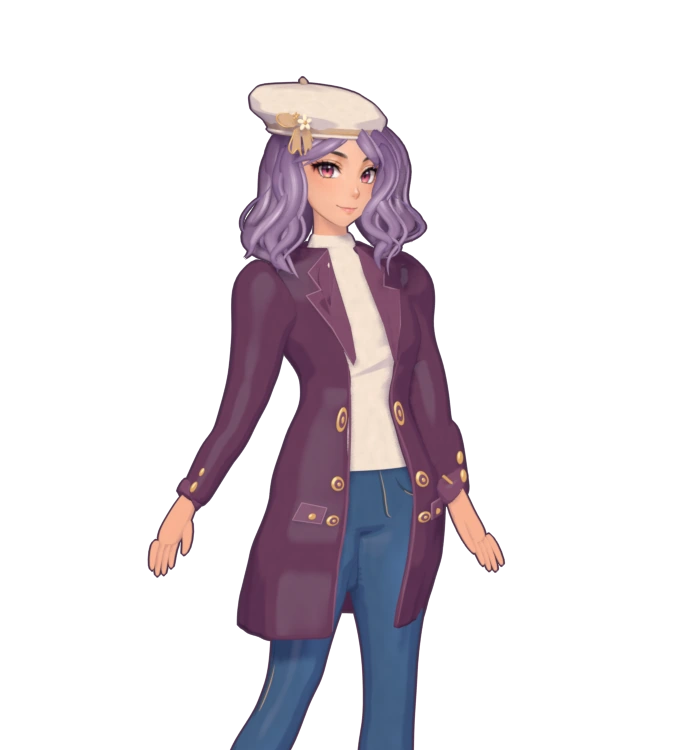
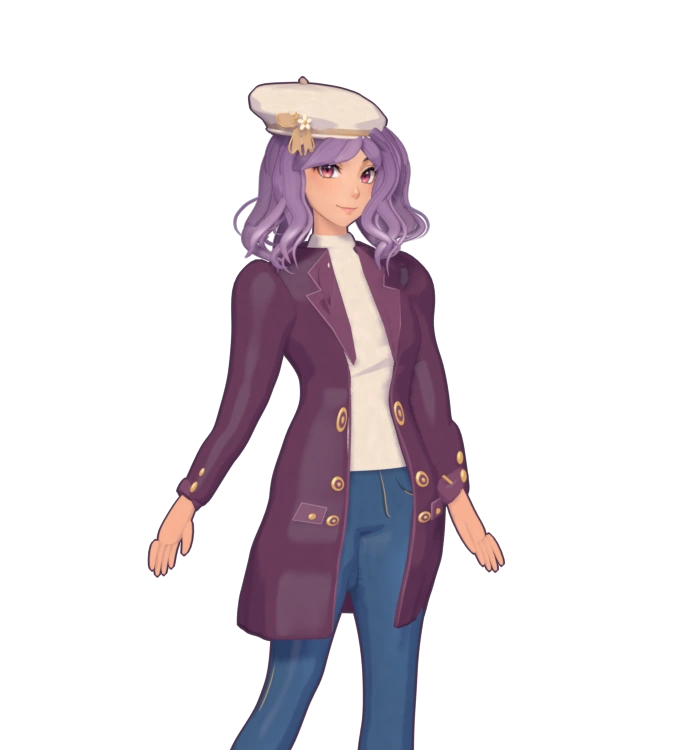
Shape a side-swept fringe and soften the ink on the lilac waves

Changed region(s): [[0.3397, 0.1533, 0.6485, 0.368]]

diff --git a/docs/avatar-3d.html b/docs/avatar-3d.html
@@ -7,7 +7,7 @@
 <meta name="description" content="같은 코디의 2D 원화와 3D 모델 렌더를 비교해 보세요.">
 <title>캐릭터 제작 시안 · 알찬끼</title>
 <link rel="stylesheet" href="./avatar-3d.css">
-<script type="module" src="./avatar-3d.mjs?v=15"></script>
+<script type="module" src="./avatar-3d.mjs?v=16"></script>
 </head>
 <body>
 <main>

diff --git a/scripts/avatar-studio/render.py b/scripts/avatar-studio/render.py
@@ -314,9 +314,29 @@ def hair_strokes(obj, masks, columns, levels, phase):
                                 (vertex//columns)/(levels-1))
 
 
+def sample_hair_curve(rows, steps=4):
+    """Sample a cubic B-spline, retaining the endpoints of each tapered tip."""
+    first, last = rows[0], rows[-1]
+    # Extrapolate the two end controls so the first and last samples pass
+    # exactly through the root and tip, including their widths.
+    controls = [tuple(2*a-b for a,b in zip(first,rows[1])), *rows,
+                tuple(2*a-b for a,b in zip(last,rows[-2]))]
+    samples = []
+    for i in range(len(rows)-1):
+        for j in range(steps):
+            t = j/steps
+            weights = ((1-t)**3, 4-6*t*t+3*t**3, 1+3*t+3*t*t-3*t**3, t**3)
+            samples.append(tuple(sum(w*c for w,c in zip(weights,axis))/6
+                                 for axis in zip(*controls[i:i+4])))
+    return [*samples,last]
+
+
 def hair_lock(name, rows, material, palette, phase):
     """A shallow, slightly twisted ribbon with lengthwise painted fibres."""
     shade, tone, shine = palette
+    # Separate the paint resolution from the sculptor's control points, so
+    # a short glint or a curved parting does not smear across a whole lock.
+    rows = sample_hair_curve(rows)
     count = 48
     path = [portrait_point(x,depth,z) for x,depth,z,_,_ in rows]
     vertices, colors, masks = [], [], []
@@ -334,19 +354,34 @@ def hair_lock(name, rows, material, palette, phase):
             thickness = row[4]*facing*(.65+.35*exp(-((width-ridge_center)/.48)**2))
             depth = thickness + row[3]*width*twist
             vertices.append(center+across*(row[3]*width)+front*depth)
-            contour = .31+.58*light_side**.67
+            # A broad painted face with a narrow turned edge reads as one
+            # overlapping sheet, including on the small shoulder curls.
+            contour = .30+.62*smooth_range(light_side,.06,.64)
             variation = .05*cos(8.1*width+3*t+phase)*light_side
             tint = .065*smooth_range(t,.48,1)*light_side
-            colors.append(tuple(d+(b-d)*(contour+variation)+(h-b)*tint
-                                for d,b,h in zip(shade,tone,shine)))
             root = .54*exp(-((t+.03)/.245)**2)
             fold = .48*(1-light_side)**1.4
-            glint = exp(-((t-.34-.125*width-.052*sin(phase))/.092)**2)
+            part_line = exp(-((width-.54-.13*sin(4.2*t+phase))/.095)**2)
+            fold += .30*part_line*light_side*smooth_range(t,0,.17)*(1-smooth_range(t,.73,.99))
+            # Neighbouring sheets share a plane of light across the crown.
+            # The shoulder gets its own softer band where the wave turns.
+            x, _, z, _, _ = row
+            lit_height = 5.50-.14*x+.038*width+.015*sin(phase)
+            crown_glint = exp(-((z-lit_height)/.034)**2)
+            wave_glint = exp(-((z-4.54+.09*x+.035*width+.05*sin(phase))/.050)**2)
+            glint = max(crown_glint,.66*wave_glint)
+            # Paint a broken, narrow band into the pigment as well. Its
+            # colour still passes through the same cel light and fold shadow.
+            brush = exp(-((width+.18+.30*sin(phase+3*t))/.63)**2)
+            filament = exp(-((width+.50+.15*sin(phase+4*t))/.12)**2)
+            painted = glint*(.36*brush+.31*filament)*light_side
+            colors.append(tuple(d+(b-d)*(contour+variation-.14*part_line*light_side)
+                                +(h-b)*(tint+painted) for d,b,h in zip(shade,tone,shine)))
             end_glint = exp(-((t-.73+.092*width-.071*cos(phase))/.079)**2)
             break_up = .76+.24*cos(8.5*width+phase+2*t)
             fine_band = glint*exp(-((width+.20)/.51)**2)
             bright_core = glint*exp(-((width+.25)/.21)**2)
-            ribbon = (.39*glint*break_up+.49*bright_core+.15*end_glint)*light_side**1.35
+            ribbon = (.48*glint*break_up+.53*bright_core+.095*end_glint)*light_side**1.35
             strokes = (.045+.55*fine_band+.12*end_glint)*light_side**1.4
             masks.append((min(.91,root+fold),ribbon,strokes))
     faces = [tuple(reversed(range(count)))]
@@ -355,7 +390,7 @@ def hair_lock(name, rows, material, palette, phase):
             n = (k+1)%count
             faces.append(tuple(j*count+i for i in (k,n,n+count,k+count)))
     faces.append(tuple(range(len(vertices)-count,len(vertices))))
-    obj = mesh(name,vertices,faces,material,2)
+    obj = mesh(name,vertices,faces,material,1)
     color_attributes(obj,"Lilac pigments",colors)
     hair_strokes(obj,masks,count,len(rows),phase)
 
@@ -379,7 +414,7 @@ def feather_lock(label, rows, material, palettes, phase, tip_spread):
 def hair(materials, hatted=False):
     lock, fine = materials
     deep, violet, orchid, blush, silver = [linear(c) for c in
-         ("46354e","896b8d","9d80a5","b599b9","e8cbe3")]
+         ("49344e","907194","a886ac","bb97b9","edcde4")]
     def sculpt(label, rows, pale, phase, tip_spread=.063):
         main = (deep,orchid if pale else violet,silver)
         accent = (deep,blush if pale else orchid,silver)
@@ -444,11 +479,12 @@ def hair(materials, hatted=False):
     # The visible-side fringe crosses the temple and ear before curling over
     # the shoulder. Its front surface stays ahead of the ear around 5.04.
     temple_profile = [
-        (.207,.324,5.531,.061,.019),(.325,.358,5.341,.089,.027),
+        (.207,.184,5.490,.034,.014),(.325,.278,5.341,.080,.023),
         (.390,.322,5.177,.104,.033),(.343,.293,5.019,.132,.037),
-        (.325,.278,4.843,.109,.032),(.366,.308,4.692,.106,.029),
-        (.515,.343,4.550,.092,.026),(.564,.385,4.417,.071,.026),
-        (.484,.414,4.293,.053,.020),(.356,.389,4.235,.002,.003),
+        (.371,.304,4.853,.094,.029),(.274,.373,4.745,.090,.026),
+        (.231,.438,4.655,.084,.024),(.316,.471,4.566,.069,.021),
+        (.462,.463,4.471,.058,.019),(.497,.441,4.381,.033,.014),
+        (.426,.404,4.303,.002,.002),
     ]
     # A darker layer behind the neck connects the curls to the crown, with
     # enough space between its tapered ends for the shoulder to show.
@@ -490,19 +526,19 @@ def hair(materials, hatted=False):
                     z -= .101 if j==0 else .022
                 rows.append((side*(x+fall*fan+swing*bias)+eye_room,
                              depth+(.035*cos(i*1.24+fall*4.1)*fall),
-                             z+fall*lift,w,
+                             z+fall*lift,w*(1-.22*fall),
                              thickness*(.94 if i==1 else .84)))
             name = f"{'Near' if side < 0 else 'Far'} shoulder | {role} {i+1}"
             sculpt(name,rows,i in (1,3),i*.91+side*.31,tip_spread=.15 if i in (0,2) else .09)
         guide = [
-            (.468,.106,5.048),(.589,.146,4.886),(.738,.162,4.763),(.808,.199,4.644),
-            (.777,.247,4.535),(.668,.279,4.480)
+            (.468,.106,5.048),(.589,.146,4.886),(.792,.162,4.763),(.868,.199,4.644),
+            (.827,.247,4.535),(.668,.279,4.480)
         ] if side<0 else [
-            (.478,.128,4.977),(.555,.162,4.831),(.678,.197,4.732),(.772,.253,4.622),
-            (.756,.286,4.520),(.674,.326,4.451)
+            (.478,.128,4.977),(.555,.162,4.831),(.678,.197,4.732),(.826,.253,4.622),
+            (.818,.286,4.520),(.674,.326,4.451)
         ]
         strand("Off-silhouette hair accent", [portrait_point(side*x,d,z) for x,d,z in guide],
-               .0075,fine,radii=[.07,.61,.90,.74,.39,.03])
+               .007,fine,radii=[.10,.57,1,.72,.32,.025])
 
     shoulder_flick = [(-.410,.257,4.995,.014,.009),(-.419,.310,4.850,.034,.015),
                      (-.502,.358,4.718,.042,.017),(-.651,.369,4.588,.048,.018),
@@ -510,31 +546,52 @@ def hair(materials, hatted=False):
                      (-.792,.273,4.331,.002,.002)]
     hair_lock("Near shoulder | loose tapered lock",shoulder_flick,lock,(deep,blush,silver),1.91)
 
+    # The inner sheet closes the part down to the temple. Its front is
+    # behind both painted forelocks and in front of the forehead.
+    under_fringe = [
+        (.142,.195,5.663,.036,.012),(.082,.339,5.552,.116,.024),
+        (-.016,.412,5.442,.148,.024),(-.116,.436,5.340,.144,.021),
+        (-.205,.415,5.246,.113,.020),(-.275,.389,5.172,.074,.014),
+        (-.354,.341,5.101,.014,.006)]
+    if hatted:
+        under_fringe = [(.103,.226,5.44,.078,.015),(-.014,.347,5.366,.132,.019),
+                        (-.130,.398,5.278,.140,.019), *under_fringe[-3:]]
+    hair_lock("Forelock underpainting",under_fringe,lock,(deep,violet,orchid),1.69)
+
+    # A small lifted curl breaks the far temple silhouette. The narrow
+    # return touches the side mass again before it reaches the cheek.
+    temple_wisp = [(.340,.255,5.406,.017,.008),(.433,.292,5.318,.032,.012),
+                   (.508,.277,5.226,.030,.012),(.567,.248,5.136,.020,.009),
+                   (.598,.236,5.059,.014,.007),(.579,.254,5.002,.010,.005),
+                   (.519,.286,4.962,.002,.002)]
+    hair_lock("Far temple | returning wisp",temple_wisp,lock,(deep,violet,silver),2.20)
+
     if hatted:
         # Roots begin inside the band. The shallow section at the brim then
         # opens into a side sweep and ends above the eye, beside the temple.
         beret_fringe = [
-            [(.142,.269,5.451,.047,.016),(.103,.352,5.382,.068,.022),
-             (-.002,.412,5.330,.076,.025),(-.107,.441,5.274,.072,.022),
-             (-.201,.421,5.223,.054,.018),(-.285,.374,5.189,.034,.012),
-             (-.354,.321,5.136,.002,.002)],
-            [(.064,.241,5.447,.043,.016),(-.036,.345,5.397,.067,.020),
-             (-.157,.418,5.340,.063,.019),(-.252,.392,5.281,.044,.016),
-             (-.323,.334,5.237,.023,.011),(-.379,.291,5.197,.002,.002)],
-            [(.244,.233,5.458,.050,.018),(.282,.326,5.378,.079,.024),
+            [(.195,.248,5.460,.060,.013),(.143,.310,5.376,.105,.015),
+             (.078,.398,5.324,.116,.020),(-.020,.452,5.285,.118,.019),
+             (-.115,.444,5.218,.077,.016),(-.205,.410,5.166,.038,.010),
+             (-.287,.384,5.100,.003,.002)],
+            [(.238,.247,5.447,.036,.012),(.223,.316,5.358,.066,.015),
+             (.174,.421,5.281,.071,.019),(.101,.474,5.230,.053,.015),
+             (.028,.461,5.186,.025,.010),(-.034,.432,5.153,.002,.002)],
+            [(.230,.172,5.406,.025,.012),(.281,.283,5.326,.062,.020),
              (.351,.364,5.279,.075,.030),(.398,.335,5.176,.054,.023),
              (.407,.288,5.111,.026,.014),(.374,.269,5.067,.002,.002)],
         ]
         for i, rows in enumerate(beret_fringe):
-            sculpt(f"Fringe tucked under the beret | {i+1}",rows,i!=1,.56+i*1.24)
+            hair_lock(f"Beret fringe | {i+1}",rows,lock,(deep,orchid if i!=1 else blush,silver),.56+i*1.24)
         return
 
     bangs = [
        [(.094,.19,5.69,.065,.044),(-.039,.286,5.634,.115,.046),(-.208,.357,5.511,.108,.045),
         (-.344,.317,5.360,.098,.041),(-.443,.230,5.210,.070,.036),(-.434,.214,5.090,.034,.023),
         (-.363,.246,5.085,.002,.003)],
-       [(.111,.206,5.665,.048,.041),(.015,.365,5.574,.087,.042),(-.139,.422,5.452,.093,.040),
-        (-.257,.407,5.301,.074,.034),(-.33,.366,5.196,.044,.025),(-.385,.292,5.175,.002,.002)],
+       [(.095,.192,5.678,.033,.019),(.141,.308,5.592,.112,.024),(.108,.428,5.493,.156,.030),
+        (.047,.473,5.391,.152,.030),(-.031,.468,5.299,.128,.022),(-.134,.446,5.212,.080,.019),
+        (-.241,.409,5.145,.042,.013),(-.287,.371,5.055,.002,.002)],
        [(.103,.234,5.665,.035,.032),(.214,.337,5.575,.095,.043),(.311,.363,5.454,.110,.043),
         (.389,.342,5.316,.092,.044),(.434,.288,5.18,.049,.027),(.413,.267,5.071,.002,.002)],
        [(.116,.189,5.687,.025,.022),(.247,.255,5.624,.093,.056),(.381,.251,5.492,.112,.056),
@@ -546,13 +603,17 @@ def hair(materials, hatted=False):
         if i>=2:
             raw = [(x+.066*max(0,min(1,(5.49-z)/.20)),d,z,w*(.87 if j>2 else 1),depth)
                    for j,(x,d,z,w,depth) in enumerate(raw)]
+        x,d,z,_,_ = raw[0]
+        raw[0] = (x,d-.044,z-.048,.012,.008)
         sculpt("Fine side-swept fringe",raw,i in (0,2),.31+i*1.35)
 
-    loose_fringe = [(.123,.247,5.657,.019,.012),(.047,.366,5.581,.036,.018),
-        (-.082,.439,5.480,.050,.019),(-.171,.441,5.379,.043,.018),
-        (-.215,.421,5.295,.033,.016),(-.274,.380,5.229,.027,.014),
-        (-.343,.329,5.179,.016,.008),(-.402,.285,5.159,.002,.002)]
-    hair_lock("Light strand over the temple",loose_fringe,lock,(deep,blush,silver),.72)
+    # A convex forelock crosses the brow; the narrower tip turns back
+    # above the lashes. Its root sits in the same part as the broad sweep.
+    loose_fringe = [(.161,.188,5.664,.020,.012),(.193,.336,5.588,.062,.020),
+        (.177,.461,5.491,.079,.023),(.150,.503,5.391,.082,.021),
+        (.137,.499,5.309,.061,.019),(.121,.489,5.249,.036,.015),
+        (.086,.470,5.206,.018,.009),(.020,.452,5.162,.002,.002)]
+    hair_lock("Brow-skimming forelock",loose_fringe,lock,(deep,blush,silver),.72)
 
 
 def flower(name, x, y, z, r, petals, middle):

diff --git a/scripts/avatar-studio/cel_style.py b/scripts/avatar-studio/cel_style.py
@@ -279,7 +279,12 @@ def layered_hair_shader():
     return tree
 
 
+HAIR_MATTE = "Hair coverage"
+
+
 def style_materials():
+    hair_matte = bpy.context.view_layer.aovs.add()
+    hair_matte.name, hair_matte.type = HAIR_MATTE, "VALUE"
     group = studio_ink_shader()
     hair_group = layered_hair_shader()
     surfaces = {
@@ -301,6 +306,11 @@ def style_materials():
         if shader is None:
             continue
         kind = mat.get("studio_surface","matte")
+        if kind == "hair":
+            matte = tree.nodes.new("ShaderNodeOutputAOV")
+            matte.aov_name = HAIR_MATTE
+            matte.inputs["Value"].default_value = 1
+            matte.location = (0,-490)
         shadow,soft,shine,ink,color = surfaces[kind]
         cel = tree.nodes.new("ShaderNodeGroup")
         layered_hair = kind == "hair" and mat.get("painted_hair_masks",False)
@@ -334,20 +344,37 @@ def add_outline(scene, draft):
     tree = scene.node_tree
     tree.nodes.clear()
     render = tree.nodes.new("CompositorNodeRLayers")
-    expanded = tree.nodes.new("CompositorNodeDilateErode")
-    expanded.mode = "DISTANCE"
-    expanded.distance = 1 if draft else 2
-    tree.links.new(render.outputs["Alpha"],expanded.inputs[0])
+    def matte_math(operation, a, b, x, y):
+        node = tree.nodes.new("CompositorNodeMath")
+        node.operation, node.location = operation, (x,y)
+        set_socket(tree,a,node.inputs[0])
+        set_socket(tree,b,node.inputs[1])
+        return node.outputs[0]
+
+    def expand(matte, pixels, x, y):
+        node = tree.nodes.new("CompositorNodeDilateErode")
+        node.mode, node.distance, node.location = "DISTANCE", pixels, (x,y)
+        tree.links.new(matte,node.inputs[0])
+        return node.outputs[0]
+
+    # A two-pixel contour closes the spaces between fine flyaways. Give
+    # the visible hair its own softer ink while keeping the garment contour.
+    hair = render.outputs[HAIR_MATTE]
+    solid = matte_math("SUBTRACT",render.outputs["Alpha"],hair,-640,-60)
+    body_ink = expand(solid,1 if draft else 2,-420,-60)
+    hair_ink = expand(hair,1,-640,-230)
+    soft_ink = matte_math("MULTIPLY",hair_ink,.60,-420,-230)
+    outline = matte_math("MAXIMUM",body_ink,soft_ink,-220,-50)
     stroke = tree.nodes.new("CompositorNodeSetAlpha")
     stroke.mode = "REPLACE_ALPHA"
     stroke.inputs["Image"].default_value = (*linear("473347"),1)
-    tree.links.new(expanded.outputs[0],stroke.inputs["Alpha"])
+    tree.links.new(outline,stroke.inputs["Alpha"])
     layer = tree.nodes.new("CompositorNodeAlphaOver")
     layer.inputs[0].default_value = 1
     tree.links.new(stroke.outputs[0],layer.inputs[1])
     tree.links.new(render.outputs["Image"],layer.inputs[2])
     output = tree.nodes.new("CompositorNodeComposite")
     tree.links.new(layer.outputs[0],output.inputs[0])
-    for node,location in [(render,(-620,160)),(expanded,(-418,-15)),(stroke,(-207,-15)),
-                          (layer,(35,160)),(output,(247,160))]:
+    for node,location in [(render,(-880,160)),(stroke,(0,-20)),
+                          (layer,(220,160)),(output,(448,160))]:
         node.location = location

diff --git a/scripts/avatar-studio/STYLE-GUIDE.md b/scripts/avatar-studio/STYLE-GUIDE.md
@@ -7,6 +7,7 @@
 - 전신은 모자를 벗긴 상태에서 정수리와 발바닥 높이를 맞춰 비교한다. 같은 화면에서 허리선과 가랑이 높이, 무릎에서 발목까지의 흐름을 확인한다. 몸판과 데님의 세로 비율은 `SILHOUETTE_HEIGHTS`에서 함께 맞추고, 손은 소매와 함께 움직인다. 머리 크기를 조정할 때는 앞머리와 모자도 같이 움직여 목과 챙의 겹침을 확인한다.
 - `TAILORING_PROFILE`은 높이 구간마다 3D 메시의 폭과 깊이를 맞춘다. 어깨에서 허리로 이어지는 곡선과 종아리의 가늘어짐을 조절할 때 상의, 데님, 손과 소매에 공통으로 적용한다. 발목과 옷깃에서 인접 부위가 자연스럽게 이어지는지 확인한다.
 - 머리카락은 가르마에서 출발해 관자놀이와 어깨를 따라 크게 나눈다. 좌우 가닥의 끝 높이와 방향을 다르게 두고, 가닥끼리 겹치는 곳과 사이로 배경이 보이는 곳을 모두 만든다. 큰 곡선에는 가는 보조 가닥과 색선을 얹는다. 눈매와 볼을 드러내고 베레모 아래에서는 뿌리와 앞머리를 챙 안쪽으로 눌러 맞춘다.
+- 앞머리는 가르마에서 한쪽 눈썹을 스치도록 큰 가닥과 가는 끝 가닥을 겹친다. 두 가닥 사이로 이마가 갈라져 보이면 안쪽에 받치는 모발 면을 맞춘다. 반대편 눈썹과 양쪽 눈동자, 베레모 챙의 아랫선이 읽히는지 같은 배율로 확인한다.
 - 헤어 하나를 Blender 컬렉션 하나로 묶는다. 베레모 웨이브처럼 머리 장식이 있는 스타일은 장식의 챙·리본과 전용 앞머리를 같은 컬렉션에서 맞춘다. 웹과 원화 비교에서도 헤어를 고르면 짝지은 장식이 함께 적용된다.
 - 라일락 웨이브의 어깨 외곽은 `outer_profiles`에서 좌우를 따로 편집한다. 가까운 쪽은 귀 아래에서 바깥으로 크게 흐르고, 먼 쪽은 좀 더 위에서 안으로 돌아온다. 관자놀이 가닥과 목 뒤의 가닥으로 깊이를 만든 다음, 가닥 끝의 벌어짐과 얇은 잔가닥을 조정한다. 확대에서는 잔가닥의 뿌리가 큰 덩어리에 붙어 있는지 확인한다.
 - 라일락 웨이브는 가까운 쪽 관자놀이에서 시작하는 옆머리가 귀를 덮고, 턱 뒤의 어두운 뒷머리가 어깨로 이어진다. 전신과 머리 확대에서 귀 쪽 피부와 턱 옆의 투명한 틈이 드러나는지 확인한다. 현재 카메라의 두 구간을 브라우저 검사에 포함한다.
@@ -21,6 +22,8 @@
 3. `Hair 03 · Brush bands and fibers`는 웨이브가 굽는 곳에 짧은 반사 띠를 얹고, 가닥의 UV를 따라 가는 결을 더한다. 가닥마다 띠의 높이와 길이를 다르게 잡고 그늘에서는 밝기를 낮춘다.
 
 광택이 균일해 보일 때는 같은 메시에서 조명만 바꾼 렌더와 모발 재질만 바꾼 렌더를 비교한다. 반사 띠의 밝기는 표면이 기준광을 향하는 각도와 실제 셀 명암을 함께 따른다. 끝 가닥의 반사는 약하게 두고, 가장 밝은 부분은 좁은 띠 안에 모은다.
+
+앞머리의 반사 띠는 이웃 가닥에서 비슷한 높이로 지나가며, 어깨의 웨이브에서는 굴곡을 따라 짧아진다. 가는 머리끝의 외곽선은 Blender의 `Hair coverage` 패스로 따로 합성해 가닥 사이의 작은 틈을 살린다.
 
 렌더에 찍히는 표면은 세 단계의 합성 결과다. Blender에서 각 단계의 `Paint`를 표면 출력에 연결된 `Emission`에 임시로 붙이면 단계별 색과 깊이를 확인할 수 있다. 모자를 쓰고 벗긴 두 코디와 모바일 전신에서 검수한다.
 
